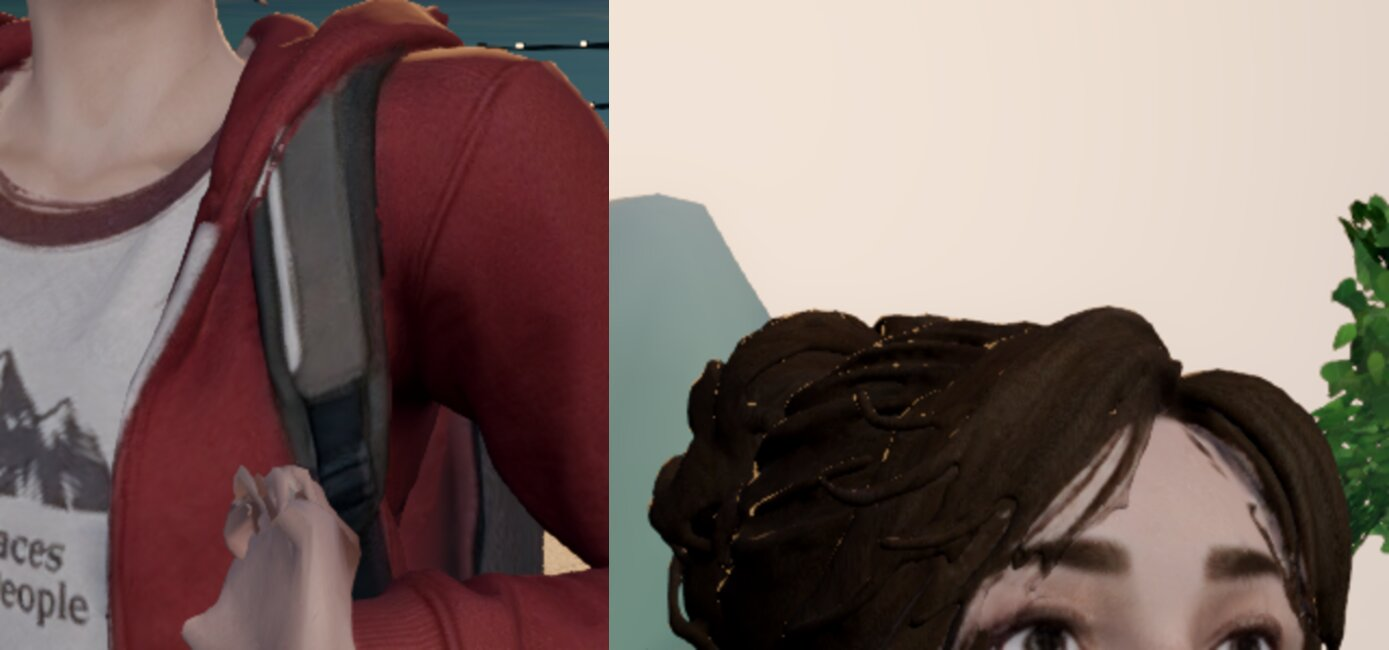
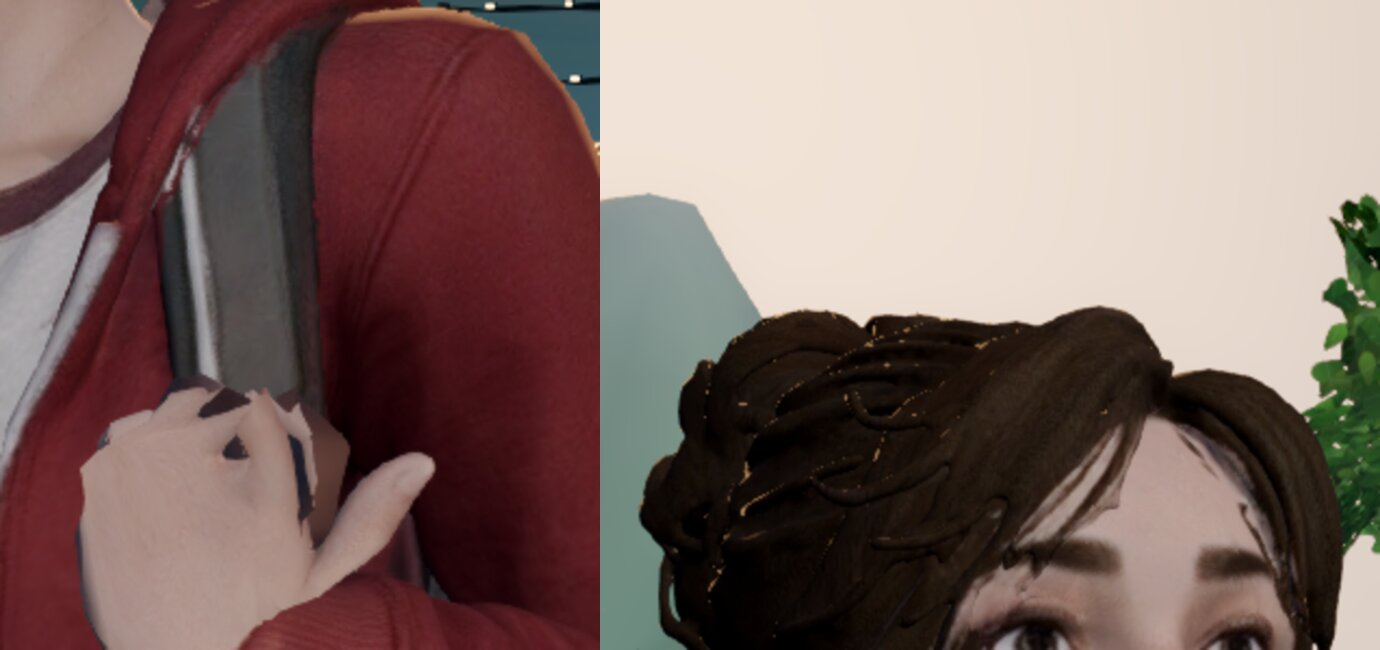
docs: route D+ §8.9 -- final sweeps; d3-d7, d9, d10 regenerated from the final state

diff --git a/docs/references/CHARACTER_ROUTE_D_PLUS.md b/docs/references/CHARACTER_ROUTE_D_PLUS.md
@@ -475,4 +475,13 @@ Checked, every phase, not chosen frames (`--sweep`, eight phases 0.125 s apart p
   and no hand is held against the cloth. The last jog frame is a bench across the camera.
 - **Head** (`d10`, §8.8): faces ahead in every walk and jog phase. Residual: in the walk the
   face reads very slightly chin-up at the front three-quarter.
-- Evidence `d3`–`d7` regenerated from `runtime_d13` and the matching `--motion` run.
+- **Arms while moving, last change** (`ARM_OUT_D`, commit `7ea8ad1`): with the side panels on
+  the spine, §8.7 step 4's outward setting read as arms held out in the walk; it is now 4° in
+  (7° less than the town body's 11°). The final sweep (`sweep_g`, all 48 frames, the sheets
+  `d9`, `d10` regenerated from it) shows sleeve and pack side panel meeting cleanly in every
+  walk phase (rear three-quarter at 2.5×, `walk_rear_tq_2`) and no slits or ridges in any jog
+  phase.
+- Evidence `d3`, `d4`, `d6`, `d7` regenerated from `runtime_d13`; `d5` from the final sweep's
+  walk frames (front three-quarter and rear three-quarter).
+- Capture note: one sweep stalled at 25 frames while another worktree's Godot window was open
+  (macOS stops drawing an occluded window); the rerun completed.
